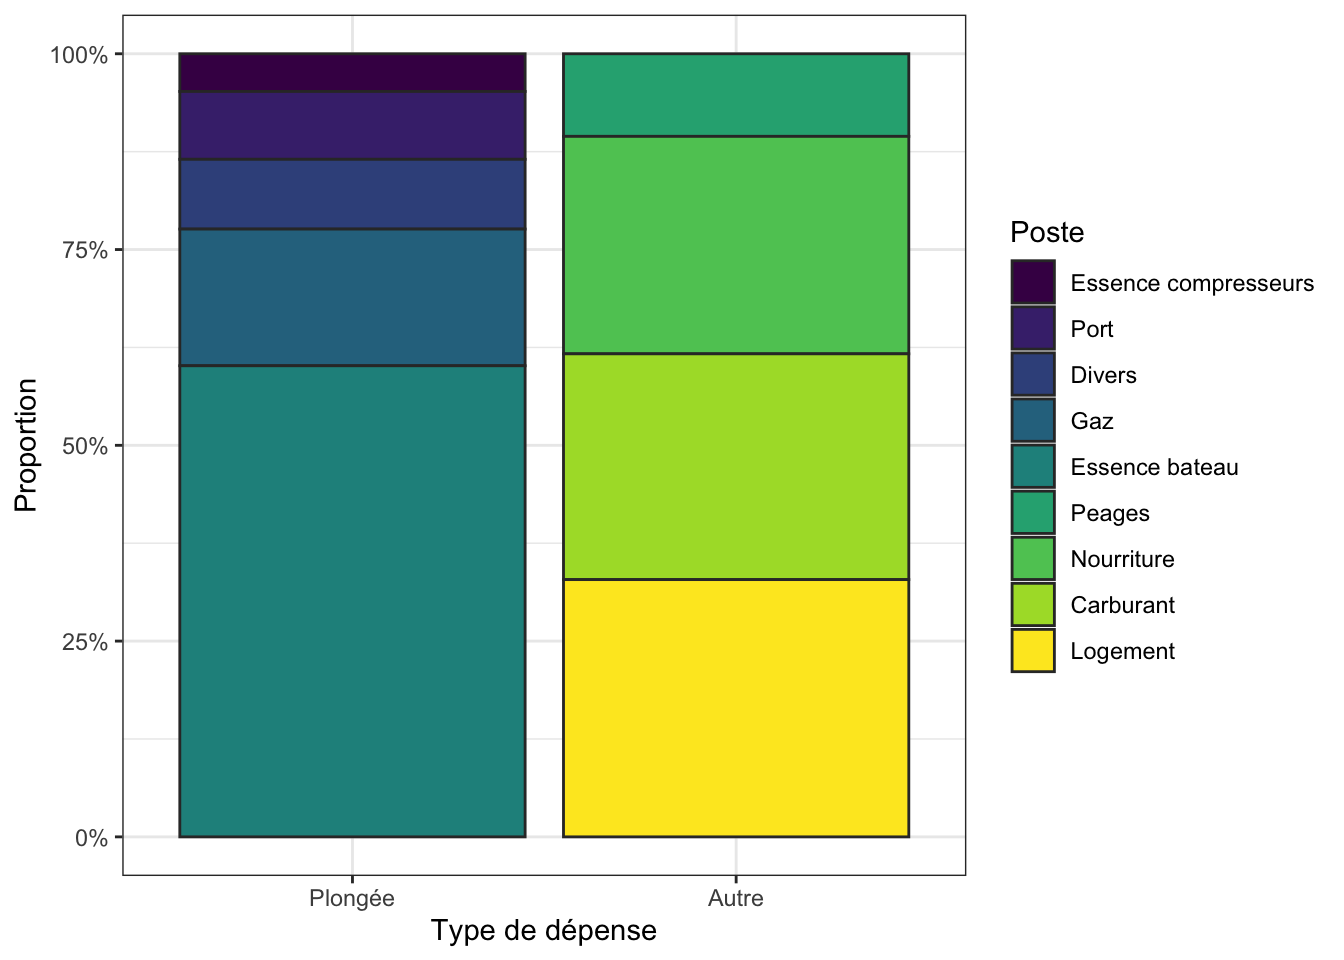
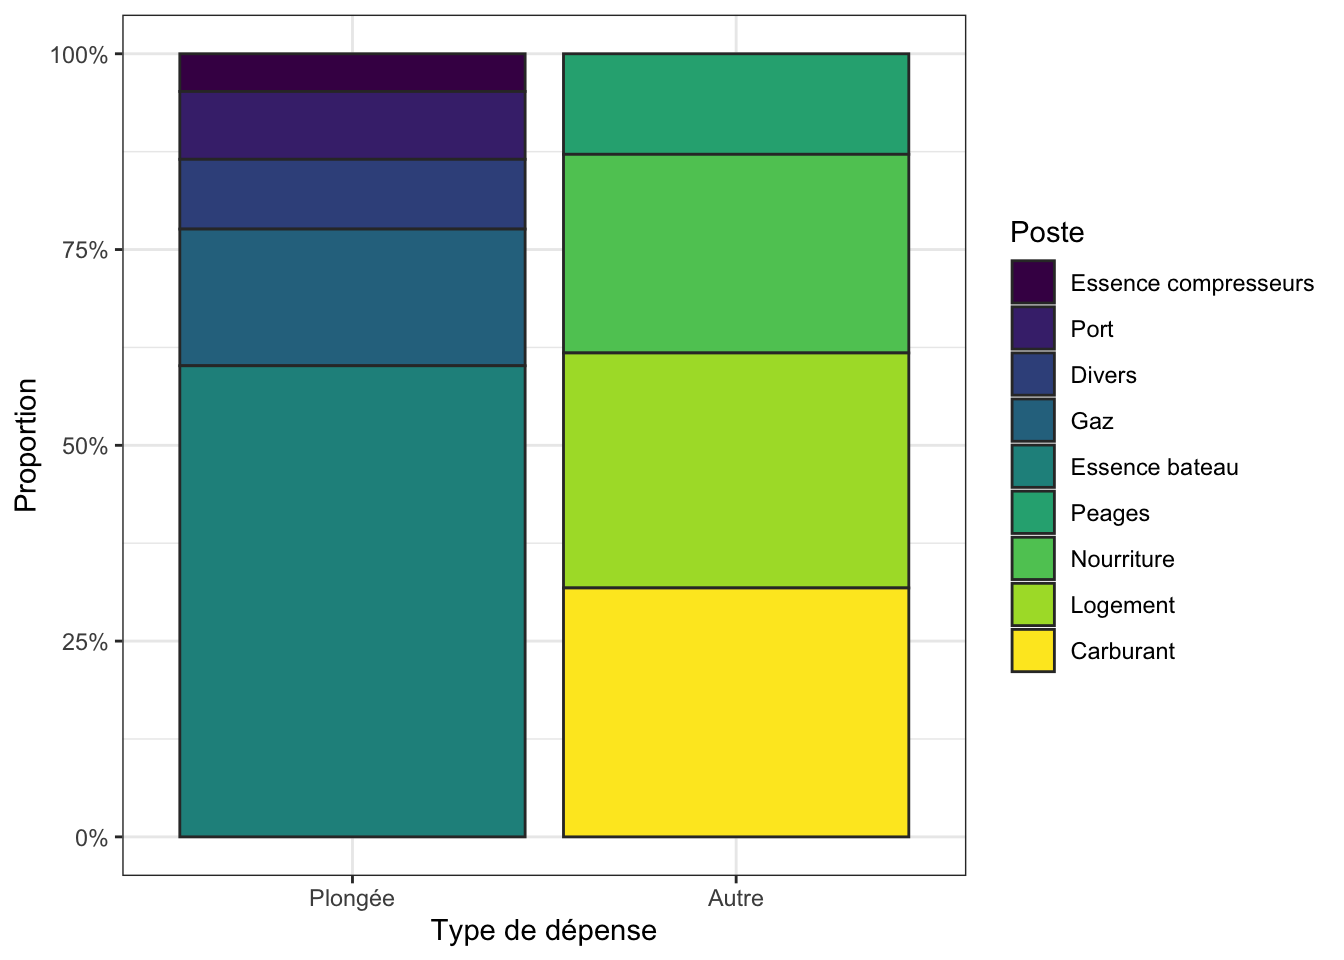
Updates to Cavalaire 2024 (Baptiste's check)

Changed region(s): [[0.4062, 0.125, 0.6875, 0.1875], [0.4062, 0.5938, 0.6875, 0.625], [0.7812, 0.625, 0.875, 0.6875]]

diff --git a/docs/Cavalaire2024.html b/docs/Cavalaire2024.html
@@ -712,11 +712,11 @@ Table&nbsp;4: Dépenses hors plongées engagées par les participants à la sort
 <td style="text-align: right;">Baptiste</td>
 <td style="text-align: right;">0€</td>
 <td style="text-align: right;">0.00€</td>
-<td style="text-align: right;">0.00€</td>
-<td style="text-align: right;">0.00€</td>
+<td style="text-align: right;">178.00€</td>
+<td style="text-align: right;">95.00€</td>
 <td style="text-align: right;">0€</td>
 <td style="text-align: right;">0€</td>
-<td style="text-align: right;">0.00€</td>
+<td style="text-align: right;">273.00€</td>
 </tr>
 <tr class="even">
 <td style="text-align: right;">Benoît</td>
@@ -753,10 +753,10 @@ Table&nbsp;4: Dépenses hors plongées engagées par les participants à la sort
 <td style="text-align: right;">0€</td>
 <td style="text-align: right;">290.32€</td>
 <td style="text-align: right;">242.89€</td>
-<td style="text-align: right;">90.70€</td>
+<td style="text-align: right;">100.40€</td>
 <td style="text-align: right;">0€</td>
 <td style="text-align: right;">0€</td>
-<td style="text-align: right;">623.91€</td>
+<td style="text-align: right;">633.61€</td>
 </tr>
 <tr class="even">
 <td style="text-align: right;">Pierre</td>
@@ -802,11 +802,11 @@ Table&nbsp;4: Dépenses hors plongées engagées par les participants à la sort
 <td style="text-align: right; font-weight: bold;">Total</td>
 <td style="text-align: right; font-weight: bold;">980€</td>
 <td style="text-align: right; font-weight: bold;">828.37€</td>
-<td style="text-align: right; font-weight: bold;">860.02€</td>
-<td style="text-align: right; font-weight: bold;">314.60€</td>
+<td style="text-align: right; font-weight: bold;">1,038.02€</td>
+<td style="text-align: right; font-weight: bold;">419.30€</td>
 <td style="text-align: right; font-weight: bold;">0€</td>
 <td style="text-align: right; font-weight: bold;">0€</td>
-<td style="text-align: right; font-weight: bold;">2,982.99€</td>
+<td style="text-align: right; font-weight: bold;">3,265.69€</td>
 </tr>
 </tbody>
 </table>
@@ -901,8 +901,8 @@ Table&nbsp;6: Coûts unitaires par personne
 <tr class="odd">
 <td style="text-align: right;">12.89€</td>
 <td style="text-align: right;">3.63€</td>
-<td style="text-align: right;">71.67€</td>
-<td style="text-align: right;">26.22€</td>
+<td style="text-align: right;">86.50€</td>
+<td style="text-align: right;">34.94€</td>
 </tr>
 </tbody>
 </table>
@@ -981,39 +981,39 @@ Table&nbsp;7: Bilan des coûts par plongeur et par poste
 </tr>
 <tr class="even">
 <td style="text-align: right;">Carburant</td>
-<td style="text-align: right;">71.67€</td>
-<td style="text-align: right;">71.67€</td>
-<td style="text-align: right;">71.67€</td>
-<td style="text-align: right;">143.34€</td>
-<td style="text-align: right;">71.67€</td>
-<td style="text-align: right;">143.34€</td>
-<td style="text-align: right;">71.67€</td>
-<td style="text-align: right;">71.67€</td>
-<td style="text-align: right;">143.34€</td>
+<td style="text-align: right;">86.50€</td>
+<td style="text-align: right;">86.50€</td>
+<td style="text-align: right;">86.50€</td>
+<td style="text-align: right;">173.00€</td>
+<td style="text-align: right;">86.50€</td>
+<td style="text-align: right;">173.00€</td>
+<td style="text-align: right;">86.50€</td>
+<td style="text-align: right;">86.50€</td>
+<td style="text-align: right;">173.00€</td>
 </tr>
 <tr class="odd">
 <td style="text-align: right; border-bottom: 1px solid;">Peage</td>
-<td style="text-align: right; border-bottom: 1px solid;">26.22€</td>
-<td style="text-align: right; border-bottom: 1px solid;">26.22€</td>
-<td style="text-align: right; border-bottom: 1px solid;">26.22€</td>
-<td style="text-align: right; border-bottom: 1px solid;">52.43€</td>
-<td style="text-align: right; border-bottom: 1px solid;">26.22€</td>
-<td style="text-align: right; border-bottom: 1px solid;">52.43€</td>
-<td style="text-align: right; border-bottom: 1px solid;">26.22€</td>
-<td style="text-align: right; border-bottom: 1px solid;">26.22€</td>
-<td style="text-align: right; border-bottom: 1px solid;">52.43€</td>
+<td style="text-align: right; border-bottom: 1px solid;">34.94€</td>
+<td style="text-align: right; border-bottom: 1px solid;">34.94€</td>
+<td style="text-align: right; border-bottom: 1px solid;">34.94€</td>
+<td style="text-align: right; border-bottom: 1px solid;">69.88€</td>
+<td style="text-align: right; border-bottom: 1px solid;">34.94€</td>
+<td style="text-align: right; border-bottom: 1px solid;">69.88€</td>
+<td style="text-align: right; border-bottom: 1px solid;">34.94€</td>
+<td style="text-align: right; border-bottom: 1px solid;">34.94€</td>
+<td style="text-align: right; border-bottom: 1px solid;">69.88€</td>
 </tr>
 <tr class="even">
 <td style="text-align: right; font-weight: bold;">Total</td>
-<td style="text-align: right; font-weight: bold;">300.53€</td>
-<td style="text-align: right; font-weight: bold;">414.15€</td>
-<td style="text-align: right; font-weight: bold;">384.21€</td>
-<td style="text-align: right; font-weight: bold;">678.59€</td>
-<td style="text-align: right; font-weight: bold;">399.18€</td>
-<td style="text-align: right; font-weight: bold;">663.62€</td>
-<td style="text-align: right; font-weight: bold;">414.15€</td>
-<td style="text-align: right; font-weight: bold;">443.65€</td>
-<td style="text-align: right; font-weight: bold;">386.12€</td>
+<td style="text-align: right; font-weight: bold;">324.09€</td>
+<td style="text-align: right; font-weight: bold;">437.70€</td>
+<td style="text-align: right; font-weight: bold;">407.76€</td>
+<td style="text-align: right; font-weight: bold;">725.71€</td>
+<td style="text-align: right; font-weight: bold;">422.73€</td>
+<td style="text-align: right; font-weight: bold;">710.74€</td>
+<td style="text-align: right; font-weight: bold;">437.70€</td>
+<td style="text-align: right; font-weight: bold;">467.21€</td>
+<td style="text-align: right; font-weight: bold;">433.24€</td>
 </tr>
 </tbody>
 </table>
@@ -1041,47 +1041,47 @@ Table&nbsp;7: Bilan des coûts par plongeur et par poste
 <tr class="odd">
 <td style="text-align: right;">Anthony</td>
 <td style="text-align: right;">rembourse à l'AP</td>
-<td style="text-align: right;">318.65€</td>
+<td style="text-align: right;">342.21€</td>
 </tr>
 <tr class="even">
 <td style="text-align: right;">Baptiste</td>
 <td style="text-align: right;">rembourse à l'AP</td>
-<td style="text-align: right;">300.53€</td>
+<td style="text-align: right;">51.09€</td>
 </tr>
 <tr class="odd">
 <td style="text-align: right;">Carole</td>
 <td style="text-align: right;">rembourse à l'AP</td>
-<td style="text-align: right;">53.33€</td>
+<td style="text-align: right;">76.88€</td>
 </tr>
 <tr class="even">
+<td style="text-align: right;">Pierre</td>
+<td style="text-align: right;">rembourse à l'AP</td>
+<td style="text-align: right;">26.41€</td>
+</tr>
+<tr class="odd">
 <td style="text-align: right;">Thomas</td>
 <td style="text-align: right;">rembourse à l'AP</td>
-<td style="text-align: right;">286.27€</td>
+<td style="text-align: right;">309.82€</td>
 </tr>
-<tr class="odd">
+<tr class="even">
 <td style="text-align: right;">Valérianne</td>
 <td style="text-align: right;">rembourse à l'AP</td>
-<td style="text-align: right;">386.12€</td>
+<td style="text-align: right;">433.24€</td>
 </tr>
-<tr class="even">
+<tr class="odd">
 <td style="text-align: right;">Benoît</td>
 <td style="text-align: right;">se fait rembourser par l'AP</td>
-<td style="text-align: right;">181.39€</td>
-</tr>
-<tr class="odd">
-<td style="text-align: right;">Jérôme</td>
-<td style="text-align: right;">se fait rembourser par l'AP</td>
-<td style="text-align: right;">472.18€</td>
+<td style="text-align: right;">157.84€</td>
 </tr>
 <tr class="even">
-<td style="text-align: right;">Nathalie</td>
+<td style="text-align: right;">Jérôme</td>
 <td style="text-align: right;">se fait rembourser par l'AP</td>
-<td style="text-align: right;">371.55€</td>
+<td style="text-align: right;">425.06€</td>
 </tr>
 <tr class="odd">
-<td style="text-align: right;">Pierre</td>
+<td style="text-align: right;">Nathalie</td>
 <td style="text-align: right;">se fait rembourser par l'AP</td>
-<td style="text-align: right;">20.71€</td>
+<td style="text-align: right;">357.70€</td>
 </tr>
 </tbody>
 </table>
